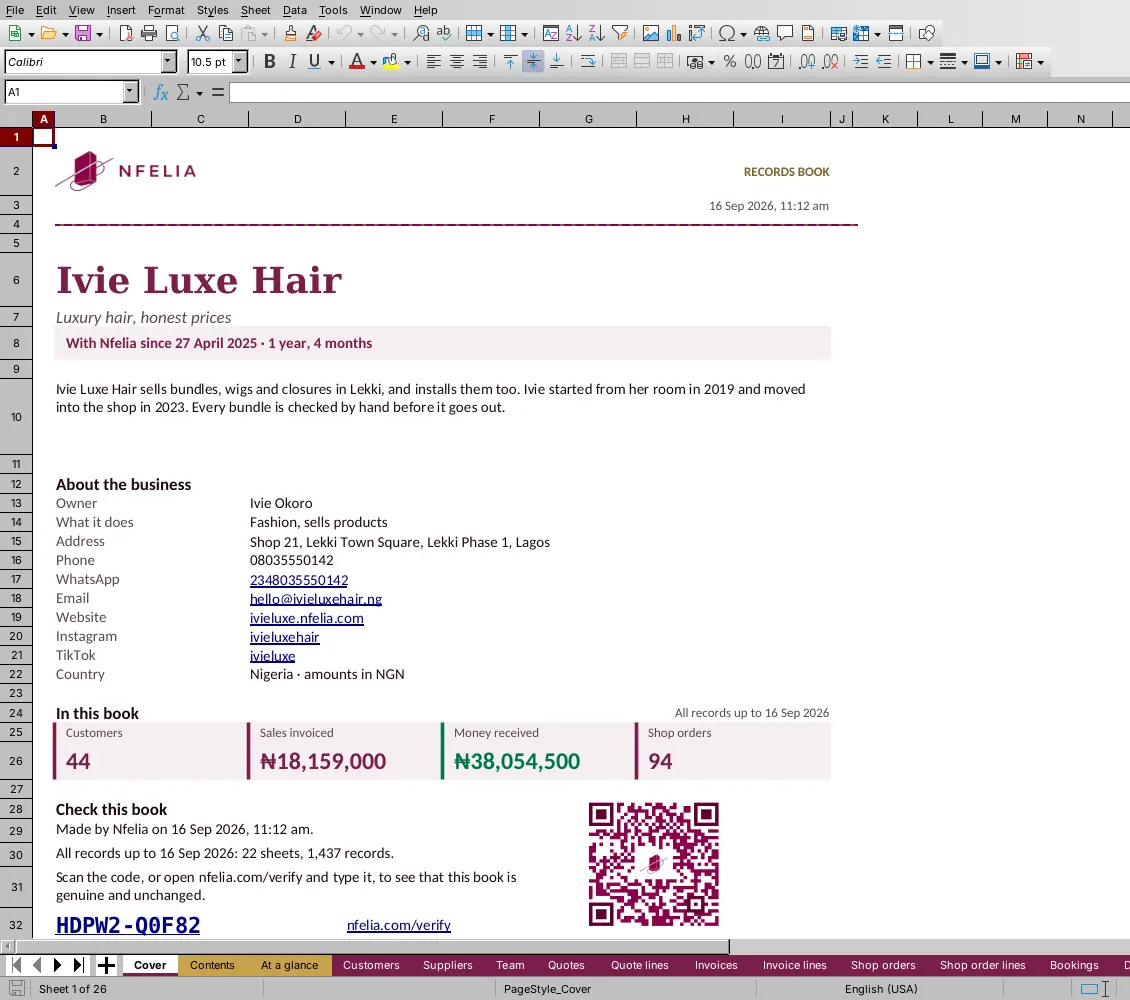
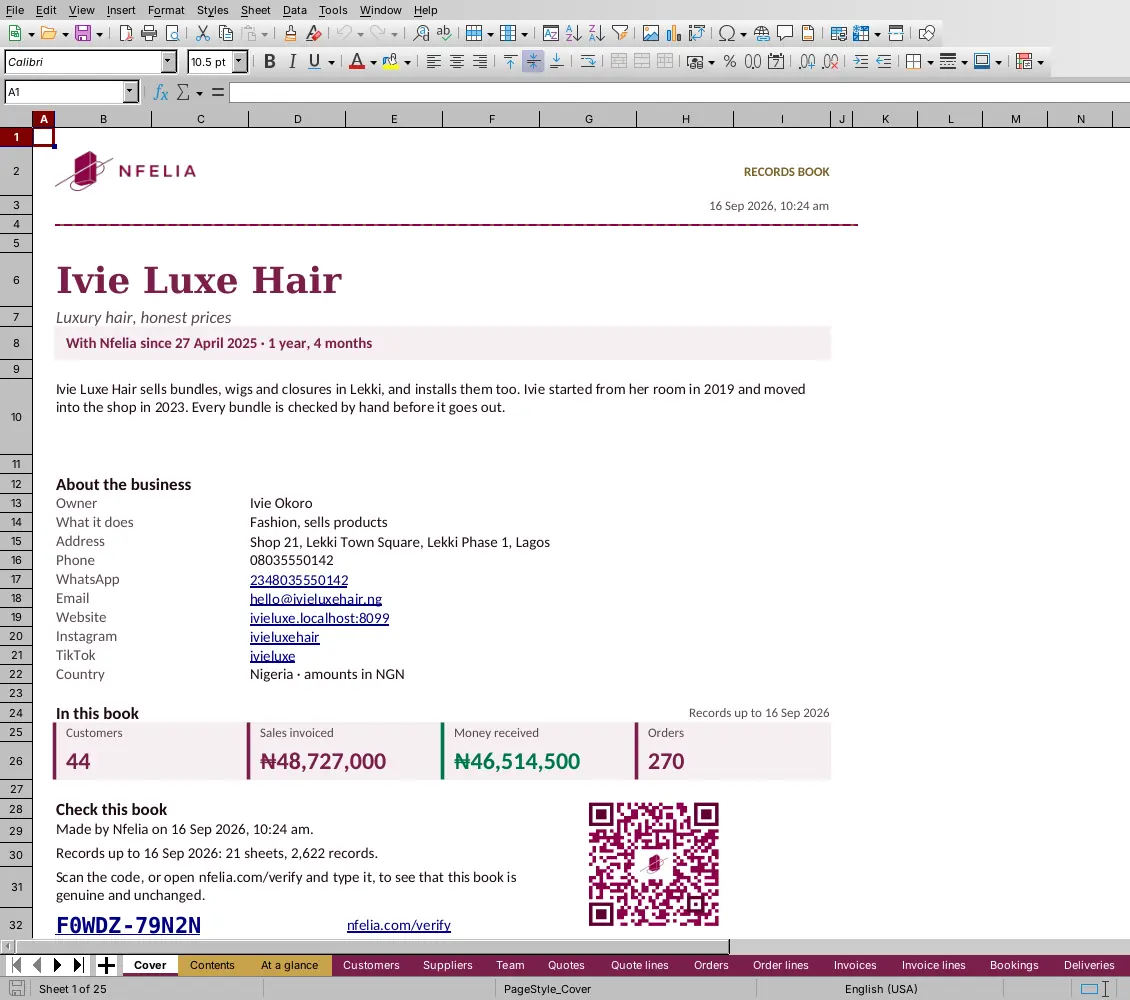
Home page pictures: the demo shop sells through orders, reshot
The phone screen of Your records still showed Sales in the bottom bar,
which is Orders now. The demo shop (records_seed.php) now keeps its
year and a half the way the orders hub does: every sale an order with
its invoice, a receipt for each payment, delivery notes and balances in
Debts, quick sales to the walk-in customer, one refund and money kept
for a next order. All five pictures are reshot from it: Your records,
an invoice checked at nfelia.com/verify (now naming its order), and the
workbook's Cover, At a glance and Receipts sheets. The verify shot takes
the newest paid invoice inside the book, and the alt texts say what the
pictures now show.

Claude-Session: https://claude.ai/code/session_01TfSWGXAgkZ9fqoejT3kscx

diff --git a/docs/handoff/testkit/shoot_records.js b/docs/handoff/testkit/shoot_records.js
@@ -22,7 +22,8 @@ const APP = 'http://localhost:8099';
 const q = (sql) => execSync(`mysql -N smartqaq_nfelia_core -e "${sql}"`).toString().trim();
 const code = q("SELECT code FROM records_books WHERE business_id = 50 AND kind = 'book' AND status = 'ready' ORDER BY id DESC LIMIT 1");
 if (!code) throw new Error('Ivie has no Records Book: make one first (see the comment at the top).');
-const invoice = q("SELECT id FROM invoices WHERE business_id = 50 AND status = 'paid' ORDER BY id DESC LIMIT 1");
+// The newest paid invoice in that book (its order is named on the page too)
+const invoice = q(`SELECT i.id FROM invoices i JOIN records_books b ON b.code = '${code}' WHERE i.business_id = 50 AND i.status = 'paid' AND i.order_id IS NOT NULL AND i.issue_date <= COALESCE(b.date_to, DATE(b.created_at)) ORDER BY i.issue_date DESC, i.id DESC LIMIT 1`);
 // The invoice's own code: the book's, then I and the id in Crockford base32 (records_row_code()).
 const b32 = (n) => { const a = '0123456789ABCDEFGHJKMNPQRSTVWXYZ'; let s = ''; do { s = a[n % 32] + s; n = Math.floor(n / 32); } while (n > 0); return s; };
 

diff --git a/docs/handoff/testkit/records_seed.php b/docs/handoff/testkit/records_seed.php
@@ -27,7 +27,8 @@ $at   = fn(int $ago, int $h = 10) => date('Y-m-d', strtotime("-{$ago} days")) . 
 
 // Start clean for this business
 $db->exec("SET FOREIGN_KEY_CHECKS = 0");
-foreach (['records_books', 'record_requests', 'tasks', 'reviews', 'bookings', 'order_items', 'orders', 'debt_settlements', 'debts', 'payments',
+foreach (['records_books', 'record_requests', 'tasks', 'reviews', 'bookings', 'order_events', 'refunds', 'kept_money', 'document_counters', 'order_items', 'orders',
+          'debt_settlements', 'debts', 'payments',
           'receipt_items', 'receipts', 'invoice_items', 'invoices', 'quotation_items', 'quotations', 'delivery_items', 'deliveries', 'expense_items',
           'expenses', 'stock_movements', 'products', 'customers', 'suppliers', 'bank_accounts', 'subscriptions', 'users', 'shop_posts', 'quote_requests'] as $t) {
     $col = in_array($t, ['order_items', 'invoice_items', 'receipt_items', 'quotation_items', 'delivery_items', 'expense_items'], true) ? null : 'business_id';
@@ -109,87 +110,174 @@ foreach ([['Wig install', 25000, 'slot'], ['Wig revamp and styling', 35000, 'slo
     $products[] = ['id' => (int)$db->lastInsertId(), 'name' => $name, 'price' => $price, 'cost' => 0, 'service' => true];
 }
 
-// Selling: quotes, invoices, payments, receipts, orders, deliveries
-$counter = ['QUO' => 0, 'INV' => 0, 'REC' => 0, 'DEL' => 0, 'EXP' => 0];
-$num = function (string $t) use (&$counter) { return 'IVL-' . $t . '-' . str_pad((string)++$counter[$t], 4, '0', STR_PAD_LEFT); };
+// Selling. Every sale is an order (docs/ORDERS_HUB.md): typed in, from a
+// quote, a quick sale at the counter, or from the shop and WhatsApp. Once
+// confirmed it has its invoice; each payment has its receipt, a delivery its
+// delivery note, and a balance left is a debt, as the app keeps them.
+$counter = ['QUO' => 0, 'ORD' => 0, 'INV' => 0, 'REC' => 0, 'DEL' => 0, 'EXP' => 0, 'RFD' => 0];
+$num = function (string $t) use (&$counter) { return 'IVL-' . $t . '-' . str_pad((string)++$counter[$t], 3, '0', STR_PAD_LEFT); };
+$db->prepare("INSERT INTO customers (business_id, full_name, notes, is_walk_in, created_at) VALUES (?, 'Walk-in customer', 'Quick sales to people who gave no name. Hidden from Clients.', 1, ?)")
+   ->execute([$BIZ, $at(530)]);
+$walk_in = ['id' => (int)$db->lastInsertId(), 'full_name' => 'Walk-in customer', 'phone' => null];
+$cn = $db->query("SELECT id, full_name, phone FROM customers WHERE business_id = {$BIZ} AND is_walk_in = 0")->fetchAll();
 $q   = $db->prepare("INSERT INTO quotations (business_id, customer_id, user_id, doc_number, status, issue_date, expiry_date, subtotal, total, token, created_at) VALUES (?, ?, ?, ?, ?, ?, ?, ?, ?, ?, ?)");
 $qi  = $db->prepare("INSERT INTO quotation_items (quotation_id, product_id, description, quantity, unit_price, subtotal, sort_order) VALUES (?, ?, ?, ?, ?, ?, ?)");
-$inv = $db->prepare("INSERT INTO invoices (business_id, customer_id, user_id, doc_number, status, issue_date, due_date, subtotal, total, amount_paid, balance_due, token, created_at)
-                     VALUES (?, ?, ?, ?, ?, ?, ?, ?, ?, ?, ?, ?, ?)");
+$ord = $db->prepare("INSERT INTO orders (business_id, customer_id, quotation_id, order_number, public_token, channel, fulfillment_type, customer_name, customer_phone,
+                        delivery_address, payment_method, currency_code, subtotal, total, status, reviewed_by, reviewed_at, created_by, created_at, done_at)
+                     VALUES (?, ?, ?, ?, ?, ?, ?, ?, ?, ?, ?, 'NGN', ?, ?, ?, ?, ?, ?, ?, ?)");
+$oi  = $db->prepare("INSERT INTO order_items (order_id, product_id, product_name, unit_price, quantity, line_total, variant_selection, sort_order) VALUES (?, ?, ?, ?, ?, ?, ?, ?)");
+$inv = $db->prepare("INSERT INTO invoices (business_id, customer_id, user_id, order_id, quotation_id, doc_number, status, issue_date, due_date, subtotal, total, amount_paid, balance_due, token, created_at)
+                     VALUES (?, ?, ?, ?, ?, ?, ?, ?, ?, ?, ?, ?, ?, ?, ?)");
 $ii  = $db->prepare("INSERT INTO invoice_items (invoice_id, product_id, description, quantity, unit_price, subtotal, sort_order) VALUES (?, ?, ?, ?, ?, ?, ?)");
-$pay = $db->prepare("INSERT INTO payments (business_id, invoice_id, user_id, amount, payment_date, method, reference, created_at) VALUES (?, ?, ?, ?, ?, ?, ?, ?)");
-$rec = $db->prepare("INSERT INTO receipts (business_id, invoice_id, customer_id, user_id, doc_number, issue_date, amount, balance_remaining, method, token, created_at) VALUES (?, ?, ?, ?, ?, ?, ?, ?, ?, ?, ?)");
-$ri  = $db->prepare("INSERT INTO receipt_items (receipt_id, product_id, description, quantity, unit_price, subtotal, sort_order) VALUES (?, ?, ?, ?, ?, ?, ?)");
+$pay = $db->prepare("INSERT INTO payments (business_id, invoice_id, user_id, amount, payment_date, method, reference, note, created_at) VALUES (?, ?, ?, ?, ?, ?, ?, ?, ?)");
+$rec = $db->prepare("INSERT INTO receipts (business_id, invoice_id, payment_id, order_id, customer_id, user_id, doc_number, issue_date, amount, balance_remaining, method, note, token, created_at)
+                     VALUES (?, ?, ?, ?, ?, ?, ?, ?, ?, ?, ?, ?, ?, ?)");
+$del = $db->prepare("INSERT INTO deliveries (business_id, invoice_id, order_id, customer_id, doc_number, token, signoff_token, status, recipient_name, recipient_phone, delivery_address,
+                        provider, rider_name, dispatch_date, actual_delivery, signoff_name, signoff_timestamp, created_at)
+                     VALUES (?, ?, ?, ?, ?, ?, ?, ?, ?, ?, ?, ?, ?, ?, ?, ?, ?, ?)");
+$di  = $db->prepare("INSERT INTO delivery_items (delivery_id, description, quantity, unit, sort_order) VALUES (?, ?, ?, ?, ?)");
+$owe = $db->prepare("INSERT INTO debts (business_id, customer_id, user_id, type, source, invoice_id, order_id, description, counterparty_name, total_amount, amount_settled, balance, due_date, status, created_at)
+                     VALUES (?, ?, ?, 'receivable', 'invoice', ?, ?, ?, ?, ?, ?, ?, ?, ?, ?)");
+$kept = $db->prepare("INSERT INTO kept_money (business_id, customer_id, order_id, payment_id, amount, note, user_id, created_at) VALUES (?, ?, ?, ?, ?, ?, ?, ?)");
 $methods = ['bank_transfer', 'bank_transfer', 'pos', 'cash', 'bank_transfer'];
+
+/**
+ * One sale, the way the orders hub keeps it. $c the customer, $lines
+ * [[product, qty]], $channel manual | quote | quick | cart_pop | whatsapp,
+ * $ago the day it was placed, $paid [[amount, days ago, method?, note?]] (a
+ * 'kept' method moves kept money; minus is money going back), $stage new |
+ * confirmed | ready | done | turned_down. Returns its ids and numbers.
+ */
+$sell = function (array $c, array $lines, string $channel, int $ago, array $paid, string $stage, bool $delivery, ?int $quote_id = null)
+        use ($db, $BIZ, $OWNER, $num, $pick, $tok, $day, $at, $ord, $oi, $inv, $ii, $pay, $rec, $del, $di, $owe, $methods): array {
+    $total = array_sum(array_map(fn($l) => $l[0]['price'] * $l[1], $lines));
+    $shop  = in_array($channel, ['cart_pop', 'whatsapp'], true);
+    $by    = $shop ? null : $pick([$OWNER, $OWNER, $OWNER + 1]);
+    $status = ['new' => $pick(['pending', 'pending_verification']), 'confirmed' => 'approved', 'ready' => 'ready', 'done' => 'fulfilled', 'turned_down' => 'rejected'][$stage];
+    $address = $delivery ? $pick(['Lekki Phase 1', 'Ajah', 'Ikoyi', 'Yaba', 'Surulere']) . ', Lagos' : null;
+    $number = $num('ORD');
+    $ord->execute([$BIZ, $c['id'], $quote_id, $number, bin2hex(random_bytes(16)), $channel, $delivery ? 'delivery' : 'pickup', $c['full_name'], $c['phone'], $address,
+                   $shop ? $pick(['bank_transfer', 'none']) : 'none', $total, $total, $status, in_array($stage, ['new', 'turned_down'], true) ? null : $OWNER,
+                   in_array($stage, ['new', 'turned_down'], true) ? null : $at($ago, 12), $by, $at($ago, 11), $stage === 'done' ? $at(max(0, $ago - ($delivery ? 2 : 0)), 16) : null]);
+    $oid = (int)$db->lastInsertId();
+    foreach ($lines as $s => [$p, $qty]) $oi->execute([$oid, $p['id'], $p['name'], $p['price'], $qty, $p['price'] * $qty, $shop ? $pick(['', 'Natural black', '1B', 'Brown']) : '', $s + 1]);
+    $out = ['order' => $oid, 'number' => $number, 'invoice' => null, 'total' => $total];
+    if (in_array($stage, ['new', 'turned_down'], true)) {
+        return $out;
+    }
+
+    // Confirmed: the invoice, and what was paid on it, each with its receipt
+    $got = array_sum(array_column($paid, 0));
+    $due = $got >= $total ? $ago : max(0, $ago - 7);
+    $inv->execute([$BIZ, $c['id'], $by ?? $OWNER, $oid, $quote_id, $num('INV'), $got >= $total ? 'paid' : ($got > 0 ? 'partially_paid' : ($due > 0 ? 'overdue' : 'sent')),
+                   $day($ago), $day($due), $total, $total, $got, $total - $got, $tok(), $at($ago, 12)]);
+    $iid = (int)$db->lastInsertId();
+    $out['invoice'] = $iid;
+    foreach ($lines as $s => [$p, $qty]) $ii->execute([$iid, $p['id'], $p['name'], $qty, $p['price'], $p['price'] * $qty, $s + 1]);
+    $left = $total;
+    $first_receipt = null;
+    foreach ($paid as $k => $row) {
+        [$amount, $when] = $row;
+        $m = $row[2] ?? ($shop ? 'bank_transfer' : ($channel === 'quick' ? $pick(['cash', 'pos', 'bank_transfer']) : $pick($methods)));
+        $pay->execute([$BIZ, $iid, $by ?? $OWNER, $amount, $day($when), $m, $m === 'bank_transfer' ? 'TRF' . mt_rand(100000, 999999) : null, $row[3] ?? null, $at($when, 15)]);
+        $pid = (int)$db->lastInsertId();
+        $out['payments'][$k] = $pid;
+        $left -= $amount;
+        if ($amount > 0) {
+            $rec->execute([$BIZ, $iid, $pid, $oid, $c['id'], $by ?? $OWNER, $num('REC'), $day($when), $amount, max(0, $left), $m, $row[3] ?? null, $tok(), $at($when, 15)]);
+            $first_receipt ??= (int)$db->lastInsertId();
+        }
+    }
+
+    // Its delivery note, from the day it was confirmed
+    $did = null;
+    if ($delivery) {
+        $state = ['confirmed' => 'pending_dispatch', 'ready' => 'dispatched', 'done' => 'signed_off'][$stage];
+        $del->execute([$BIZ, $iid, $oid, $c['id'], $num('DEL'), $tok(), $tok(), $state, $c['full_name'], $c['phone'], $address, $pick(['gig', 'kwik', 'private_rider']),
+                       $pick(['Musa', 'Kunle', 'Emeka']), $state === 'pending_dispatch' ? null : $at(max(0, $ago - 1), 10),
+                       $state === 'signed_off' ? $at(max(0, $ago - 2), 16) : null, $state === 'signed_off' ? $c['full_name'] : null,
+                       $state === 'signed_off' ? $at(max(0, $ago - 2), 16) : null, $at($ago, 12)]);
+        $did = (int)$db->lastInsertId();
+        foreach ($lines as $s => [$p, $qty]) $di->execute([$did, $p['name'], $qty, 'pcs', $s + 1]);
+    }
+    $db->prepare("UPDATE orders SET invoice_id = ?, receipt_id = ?, delivery_id = ? WHERE id = ?")->execute([$iid, $first_receipt, $did, $oid]);
+
+    // A balance left is owed, in Debts, until it is paid
+    if ($got < $total) {
+        $owe->execute([$BIZ, $c['id'], $OWNER, $iid, $oid, 'Balance on order ' . $number, $c['full_name'], $total, $got, $total - $got, $day($due),
+                       $got > 0 ? 'settling' : 'active', $at($ago, 12)]);
+    }
+    return $out;
+};
+
+// Typed in and quick sales, every few days for a year and a half; some from a quote
 for ($ago = 520; $ago >= 0; $ago -= mt_rand(1, 4)) {
     $season = 1 + 0.5 * sin($ago / 58);      // busier some months than others
-    $c = $pick($customers);
+    $c = $pick($cn);
     $lines = [];
     for ($k = 0, $n = mt_rand(1, 3); $k < $n; $k++) {
         $p = $products[mt_rand(0, count($products) - 1)];
         $lines[] = [$p, $p['service'] ?? false ? 1 : mt_rand(1, 2)];
     }
     $total = array_sum(array_map(fn($l) => $l[0]['price'] * $l[1], $lines));
-    $kind = mt_rand(1, 10) <= 6 * $season / 1.5 ? 'invoice' : 'receipt';
+    $kind = mt_rand(1, 10) <= 6 * $season / 1.5 ? 'order' : 'quick';
+    $quote_id = null;
     if (mt_rand(1, 6) === 1) {
         $status = $ago > 30 ? $pick(['accepted', 'converted', 'declined', 'expired', 'converted']) : $pick(['sent', 'in_negotiation', 'accepted']);
-        $q->execute([$BIZ, $c, $OWNER, $num('QUO'), $status, $day($ago + 3), $day($ago - 4), $total, $total, $tok(), $at($ago + 3)]);
+        $q->execute([$BIZ, $c['id'], $OWNER, $num('QUO'), $status, $day($ago + 3), $day($ago - 4), $total, $total, $tok(), $at($ago + 3)]);
         $qid = (int)$db->lastInsertId();
         foreach ($lines as $s => [$p, $qty]) $qi->execute([$qid, $p['id'], $p['name'], $qty, $p['price'], $p['price'] * $qty, $s + 1]);
-    }
-    if ($kind === 'invoice') {
-        $paid = $ago > 45 ? ($ago % 17 === 0 ? 0 : ($ago % 7 === 0 ? round($total / 2, -3) : $total)) : ($ago > 10 ? round($total * mt_rand(0, 10) / 10, -3) : 0);
-        $status = $paid >= $total ? 'paid' : ($paid > 0 ? 'partially_paid' : ($ago > 21 ? 'overdue' : 'sent'));
-        $inv->execute([$BIZ, $c, $OWNER, $num('INV'), $status, $day($ago), $day($ago - 14), $total, $total, $paid, $total - $paid, $tok(), $at($ago)]);
-        $iid = (int)$db->lastInsertId();
-        foreach ($lines as $s => [$p, $qty]) $ii->execute([$iid, $p['id'], $p['name'], $qty, $p['price'], $p['price'] * $qty, $s + 1]);
-        if ($paid > 0) {
-            $when = max(0, $ago - mt_rand(0, 9));
-            $m = $pick($methods);
-            $pay->execute([$BIZ, $iid, $OWNER, $paid, $day($when), $m, $m === 'bank_transfer' ? 'TRF' . mt_rand(100000, 999999) : null, $at($when, 15)]);
-            $rec->execute([$BIZ, $iid, $c, $OWNER, $num('REC'), $day($when), $paid, $total - $paid, $m, $tok(), $at($when, 15)]);
+        if ($status === 'converted') {
+            $kind = 'order';
+            $quote_id = $qid;
         }
+    }
+    if ($kind === 'order') {
+        // A deposit, then the rest; now and then nothing yet, or half
+        $paid = $ago > 45 ? ($ago % 17 === 0 ? 0 : ($ago % 7 === 0 ? round($total / 2, -3) : $total)) : ($ago > 10 ? round($total * mt_rand(0, 10) / 10, -3) : 0);
+        $deposit = $paid >= $total && mt_rand(1, 3) === 1 ? round($total * 0.3, -3) : 0;
+        $rows = $paid <= 0 ? [] : ($deposit ? [[$deposit, $ago], [$paid - $deposit, max(0, $ago - mt_rand(2, 9))]] : [[$paid, max(0, $ago - mt_rand(0, 9))]]);
+        $sell($c, $lines, $quote_id ? 'quote' : 'manual', $ago, $rows, $ago > 10 ? 'done' : $pick(['confirmed', 'ready', 'done']), mt_rand(1, 3) === 1, $quote_id);
     } else {
-        $m = $pick($methods);
-        $rec->execute([$BIZ, null, mt_rand(1, 4) === 1 ? null : $c, $pick([$OWNER, $OWNER + 1]), $num('REC'), $day($ago), $total, 0, $m, $tok(), $at($ago, 13)]);
-        $rid = (int)$db->lastInsertId();
-        foreach ($lines as $s => [$p, $qty]) $ri->execute([$rid, $p['id'], $p['name'], $qty, $p['price'], $p['price'] * $qty, $s + 1]);
+        $sell(mt_rand(1, 4) === 1 ? $walk_in : $c, $lines, 'quick', $ago, [[$total, $ago]], 'done', false);
     }
 }
 
-// Shop orders and deliveries
-$ord = $db->prepare("INSERT INTO orders (business_id, customer_id, order_number, public_token, channel, fulfillment_type, customer_name, customer_phone, customer_email,
-                        delivery_address, payment_method, currency_code, subtotal, total, status, delivery_id, created_at)
-                     VALUES (?, ?, ?, ?, ?, ?, ?, ?, ?, ?, ?, 'NGN', ?, ?, ?, ?, ?)");
-$oi  = $db->prepare("INSERT INTO order_items (order_id, product_id, product_name, unit_price, quantity, line_total, variant_selection) VALUES (?, ?, ?, ?, ?, ?, ?)");
-$del = $db->prepare("INSERT INTO deliveries (business_id, customer_id, doc_number, token, signoff_token, status, recipient_name, recipient_phone, delivery_address, provider, rider_name,
-                        dispatch_date, actual_delivery, signoff_name, signoff_timestamp, created_at)
-                     VALUES (?, ?, ?, ?, ?, ?, ?, ?, ?, ?, ?, ?, ?, ?, ?, ?)");
-$di  = $db->prepare("INSERT INTO delivery_items (delivery_id, description, quantity, unit, sort_order) VALUES (?, ?, ?, ?, ?)");
-$cn = $db->query("SELECT id, full_name, phone FROM customers WHERE business_id = {$BIZ}")->fetchAll();
-for ($i = 1, $ago = 400; $ago >= 0; $i++, $ago -= mt_rand(2, 6)) {
+// From the shop and WhatsApp, paid by transfer when confirmed
+for ($ago = 400; $ago >= 0; $ago -= mt_rand(2, 6)) {
     $c = $pick($cn);
     $p = $products[mt_rand(0, 9)];
-    $qty = mt_rand(1, 2);
-    $delivery = mt_rand(1, 3) > 1;
-    $status = $ago > 7 ? $pick(['fulfilled', 'fulfilled', 'fulfilled', 'cancelled']) : $pick(['pending', 'pending_verification', 'approved']);
-    $did = null;
-    if ($delivery && $status === 'fulfilled') {
-        $del->execute([$BIZ, $c['id'], $num('DEL'), $tok(), $tok(), 'signed_off', $c['full_name'], $c['phone'], $pick(['Lekki Phase 1', 'Ajah', 'Yaba']) . ', Lagos',
-                       $pick(['gig', 'kwik', 'private_rider']), $pick(['Musa', 'Kunle', 'Emeka']), $day($ago - 1), $at($ago - 2, 16), $c['full_name'], $at($ago - 2, 16), $at($ago)]);
-        $did = (int)$db->lastInsertId();
-        $di->execute([$did, $p['name'], $qty, 'pcs', 1]);
-    }
-    $ord->execute([$BIZ, $c['id'], 'ORD-' . str_pad((string)$i, 4, '0', STR_PAD_LEFT), bin2hex(random_bytes(16)), $pick(['cart_pop', 'cart_pop', 'whatsapp']),
-                   $delivery ? 'delivery' : 'pickup', $c['full_name'], $c['phone'], null, $delivery ? 'Lekki, Lagos' : null, $pick(['bank_transfer', 'none']),
-                   $p['price'] * $qty, $p['price'] * $qty, $status, $did, $at($ago, 11)]);
-    $oid = (int)$db->lastInsertId();
-    $oi->execute([$oid, $p['id'], $p['name'], $p['price'], $qty, $p['price'] * $qty, $pick(['', 'Natural black', '1B', 'Brown'])]);
-    if ($status === 'fulfilled' && mt_rand(1, 3) === 1) {
+    $line = [[$p, mt_rand(1, 2)]];
+    $stage = $ago > 7 ? $pick(['done', 'done', 'done', 'turned_down']) : $pick(['new', 'confirmed', 'ready']);
+    $o = $sell($c, $line, $pick(['cart_pop', 'cart_pop', 'whatsapp']), $ago, [[$p['price'] * $line[0][1], $ago]], $stage, mt_rand(1, 3) > 1);
+    if ($stage === 'done' && mt_rand(1, 3) === 1) {
         $db->prepare("INSERT INTO reviews (business_id, order_id, customer_name, token, rating, comment, status, created_at, submitted_at) VALUES (?, ?, ?, ?, ?, ?, 'published', ?, ?)")
-           ->execute([$BIZ, $oid, $c['full_name'], bin2hex(random_bytes(16)), $pick([5, 5, 5, 4, 4, 3]), $pick(['Beautiful hair, no shedding at all.', 'Delivery was fast and the wig fits well.',
+           ->execute([$BIZ, $o['order'], $c['full_name'], bin2hex(random_bytes(16)), $pick([5, 5, 5, 4, 4, 3]), $pick(['Beautiful hair, no shedding at all.', 'Delivery was fast and the wig fits well.',
                       'Lovely customer service. I will buy again.', 'Exactly like the pictures.', 'Good, but delivery took a day longer.']), $at($ago - 3), $at($ago - 3, 19)]);
     }
+}
+
+// A change midway: an order paid in full came down by ₦20,000, kept for the
+// customer's next order, which used it (order_keep_overpaid(), order_use_kept())
+$c = $cn[3];
+$a = $sell($c, [[$products[0], 1]], 'manual', 38, [[$products[0]['price'] + 20000, 38, 'bank_transfer'], [-20000, 36, 'kept', 'Kept for their next order']], 'done', false);
+$kept->execute([$BIZ, $c['id'], $a['order'], $a['payments'][1], 20000, 'Kept from order ' . $a['number'], $OWNER, $at(36, 14)]);
+$b = $sell($c, [[$products[2], 1]], 'manual', 12, [[$products[2]['price'] - 20000, 12, 'cash'], [20000, 12, 'kept', 'Paid from money kept for them']], 'done', false);
+$kept->execute([$BIZ, $c['id'], $b['order'], $b['payments'][1], -20000, 'Used on order ' . $b['number'], $OWNER, $at(12, 15)]);
+
+// Money given back: a shorter bundle than paid for, ₦7,000 back by transfer,
+// to the account the customer gave on the refund form (refund_record())
+$c = $cn[8];
+$r = $sell($c, [[$products[4], 1]], 'manual', 26, [[$products[4]['price'] + 7000, 26, 'bank_transfer'], [-7000, 24, 'bank_transfer', 'Refund: Changed to a shorter bundle']], 'done', false);
+$db->prepare("UPDATE payments SET reference = 'TRF551028' WHERE id = ?")->execute([$r['payments'][1]]);
+$db->prepare("INSERT INTO refunds (business_id, order_id, invoice_id, customer_id, doc_number, status, amount, method, reference, reason, token, asked_at, asked_email,
+                 payee_kind, payee_name, payee_bank, payee_number, details_at, payment_id, paid_at, user_id, created_at)
+              VALUES (?, ?, ?, ?, ?, 'paid', 7000, 'bank_transfer', 'TRF551028', 'Changed to a shorter bundle', ?, ?, 0, 'bank', ?, 'GTBank', '0123456789', ?, ?, ?, ?, ?)")
+   ->execute([$BIZ, $r['order'], $r['invoice'], $c['id'], $num('RFD'), bin2hex(random_bytes(16)), $at(25, 10), $c['full_name'], $at(25, 13), $r['payments'][1], $at(24, 11), $OWNER, $at(25, 10)]);
+
+// The counters carry on from the numbers used, as the generator would
+foreach ($counter as $type => $n) {
+    if ($n) $db->prepare("INSERT INTO document_counters (business_id, doc_type, last_number) VALUES (?, ?, ?) ON DUPLICATE KEY UPDATE last_number = VALUES(last_number)")->execute([$BIZ, $type, $n]);
 }
 
 // Spending
@@ -238,6 +326,6 @@ require_once BASE_PATH . '/app/helpers/money.php';
 foreach ($customers as $cid) customer_refresh_totals($db, $BIZ, $cid);
 
 echo "Ivie Luxe Hair (business {$BIZ}) is ready: owner ivie@ivieluxe.test / DemoPass12\n";
-foreach (['customers', 'products', 'quotations', 'invoices', 'receipts', 'payments', 'orders', 'deliveries', 'expenses', 'bookings', 'tasks', 'reviews'] as $t) {
+foreach (['customers', 'products', 'quotations', 'orders', 'invoices', 'receipts', 'payments', 'refunds', 'kept_money', 'deliveries', 'expenses', 'bookings', 'tasks', 'reviews'] as $t) {
     echo '  ' . str_pad($t, 12) . $db->query("SELECT COUNT(*) FROM {$t} WHERE business_id = {$BIZ}")->fetchColumn() . "\n";
 }

diff --git a/views/home/index.php b/views/home/index.php
@@ -165,7 +165,7 @@ $cards = [
         'lead'  => 'Everything you record in Nfelia, in one Excel workbook in your colours. Whoever you show it to can check it is genuine at nfelia.com/verify.',
         'ticks' => ['Customers, sales, money and stock, with totals and a chart of every month', 'A code on every invoice and receipt that anyone can check', 'Free in every month you pay for. Your plain copy is always free'],
         'shots' => [['Your records in Nfelia: the Records Book, free this month, with a Make my Records Book button', 'Made in one tap'],
-                    ['nfelia.com/verify showing Invoice IVL-INV-0080 from Ivie Luxe Hair as genuine, with its amount and status', 'Anyone can check it']],
+                    ['nfelia.com/verify showing Invoice IVL-INV-281 from Ivie Luxe Hair as genuine, with its order, amount and status', 'Anyone can check it']],
     ],
 ];
 
@@ -403,7 +403,7 @@ $flash = get_flash();
             </div>
             <figure class="book-shot" id="book-cover" role="tabpanel" aria-labelledby="book-tab-cover">
                 <a class="book-zoom" href="<?= $img ?>/workbook-cover.webp" target="_blank" rel="noopener"><img src="<?= $img ?>/workbook-cover.webp" width="1130" height="1000" loading="lazy" decoding="async"
-                     alt="The cover of Ivie Luxe Hair's Records Book, open in a spreadsheet: the Nfelia logo, the shop's name in its colours, how long it has been with Nfelia, its details, its customers, sales and money received, and a QR code to check the book"></a>
+                     alt="The cover of Ivie Luxe Hair's Records Book, open in a spreadsheet: the Nfelia logo, the shop's name in its colours, how long it has been with Nfelia, its details, its customers, sales, money received and orders, and a QR code to check the book"></a>
                 <figcaption><strong>The cover.</strong> Your name and colours, your figures, and a code anyone can scan to check the book.</figcaption>
             </figure>
             <figure class="book-shot" id="book-glance" role="tabpanel" aria-labelledby="book-tab-glance">
@@ -413,7 +413,7 @@ $flash = get_flash();
             </figure>
             <figure class="book-shot" id="book-receipts" role="tabpanel" aria-labelledby="book-tab-receipts">
                 <a class="book-zoom" href="<?= $img ?>/workbook-receipts.webp" target="_blank" rel="noopener"><img src="<?= $img ?>/workbook-receipts.webp" width="1130" height="1000" loading="lazy" decoding="async"
-                     alt="The Receipts sheet: 199 receipts with date, customer, invoice, amount and how it was paid, each with an Open link and its own verify code"></a>
+                     alt="The Receipts sheet: 282 receipts, each with its order, date, customer, invoice, amount and how it was paid, an Open link and its own verify code"></a>
                 <figcaption><strong>Every record.</strong> Each receipt, invoice and payment in its own sheet, with a link to it and a code of its own.</figcaption>
             </figure>
         </div>
